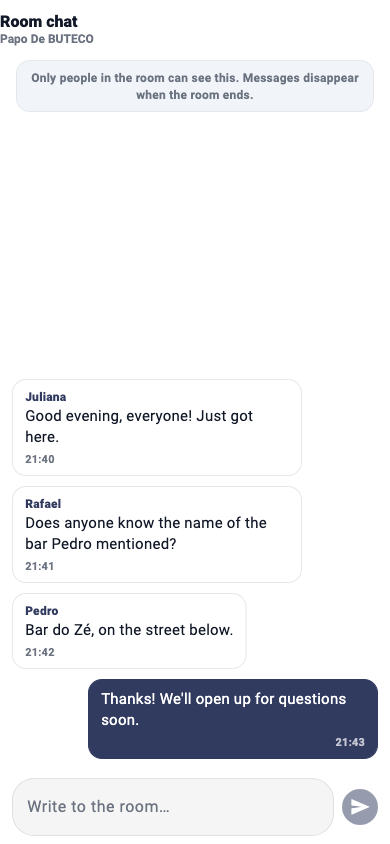
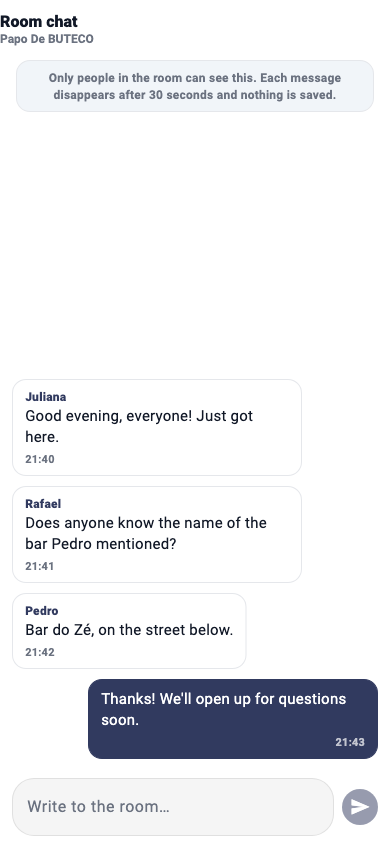
feat(audio-rooms): chat da sala efêmero, cada mensagem some em 30s, sem histórico pra quem entra depois

Changed region(s): [[0.1231, 0.0616, 0.9231, 0.1232]]

diff --git a/lib/features/audio_rooms/audio_room_controller.dart b/lib/features/audio_rooms/audio_room_controller.dart
@@ -26,7 +26,7 @@ class AudioRoomPeer {
 }
 
 /// Mensagem do chat da sala. Só existe na memória de quem está na sala:
-/// nada é salvo, e tudo some quando a sala acaba.
+/// nada é salvo, e cada mensagem some da tela depois de [AudioRoomController.chatTtl].
 class AudioRoomChatMessage {
   final String id;
   final String uid;
@@ -82,12 +82,16 @@ class AudioRoomController extends ChangeNotifier {
 
   static const String chatTopic = 'remdy_chat';
   static const String chatDeleteTopic = 'remdy_chat_del';
-  static const String chatSyncTopic = 'remdy_chat_sync';
   static const int chatMaxChars = 500;
   static const int _chatKeep = 200;
 
+  /// Quanto tempo cada mensagem fica na tela antes de sumir.
+  static const Duration chatTtl = Duration(seconds: 30);
+  final Map<String, Timer> _chatTimers = {};
+  final Set<String> _unread = {};
+
   final List<AudioRoomChatMessage> chat = [];
-  int chatUnread = 0;
+  int get chatUnread => _unread.length;
   bool _chatOpen = false;
 
   /// Avisos para a tela mostrar (chave de texto).
@@ -149,10 +153,7 @@ class AudioRoomController extends ChangeNotifier {
           }
           notifyListeners();
         });
-      listener
-        ..on<DataReceivedEvent>((e) => _onData(room, e))
-        ..on<ParticipantConnectedEvent>(
-            (e) => _sendHistory(e.participant.identity));
+      listener.on<DataReceivedEvent>((e) => _onData(room, e));
       room.addListener(notifyListeners);
       await room.connect(t.url, t.token);
       _room = room;
@@ -206,9 +207,7 @@ class AudioRoomController extends ChangeNotifier {
   Future<void> muteAll() => _sendMute('*');
 
   Future<void> _onData(Room room, DataReceivedEvent e) async {
-    if (e.topic == chatTopic ||
-        e.topic == chatDeleteTopic ||
-        e.topic == chatSyncTopic) {
+    if (e.topic == chatTopic || e.topic == chatDeleteTopic) {
       _onChatData(e);
       return;
     }
@@ -239,8 +238,8 @@ class AudioRoomController extends ChangeNotifier {
 
   void setChatOpen(bool open) {
     _chatOpen = open;
-    if (open && chatUnread != 0) {
-      chatUnread = 0;
+    if (open && _unread.isNotEmpty) {
+      _unread.clear();
       notifyListeners();
     }
   }
@@ -250,7 +249,16 @@ class AudioRoomController extends ChangeNotifier {
     chat.add(m);
     chat.sort((a, b) => a.ts.compareTo(b.ts));
     if (chat.length > _chatKeep) chat.removeRange(0, chat.length - _chatKeep);
-    if (countUnread && !_chatOpen) chatUnread++;
+    if (countUnread && !_chatOpen) _unread.add(m.id);
+    _chatTimers[m.id] = Timer(chatTtl, () => _removeChat(m.id));
+  }
+
+  void _removeChat(String id) {
+    _chatTimers.remove(id)?.cancel();
+    _unread.remove(id);
+    final before = chat.length;
+    chat.removeWhere((m) => m.id == id);
+    if (chat.length != before) notifyListeners();
   }
 
   Future<void> sendChat(String raw) async {
@@ -278,30 +286,7 @@ class AudioRoomController extends ChangeNotifier {
     if (local == null || !isModerator) return;
     await local.publishData(utf8.encode(jsonEncode({'id': id})),
         reliable: true, topic: chatDeleteTopic);
-    chat.removeWhere((m) => m.id == id);
-    notifyListeners();
-  }
-
-  /// Quem chega depois recebe as mensagens anteriores de um moderador
-  /// que já está na sala (o de menor id, pra não chegar repetido).
-  Future<void> _sendHistory(String to) async {
-    final room = _room;
-    final local = room?.localParticipant;
-    if (room == null || local == null || !isModerator || chat.isEmpty) return;
-    final mods = <String>[
-      local.identity,
-      for (final p in room.remoteParticipants.values)
-        if (p.identity != to && audioRoomIsModeratorRole(_roleOf(p.identity)))
-          p.identity,
-    ]..sort();
-    if (mods.first != local.identity) return;
-    for (var i = 0; i < chat.length; i += 10) {
-      final part = chat.skip(i).take(10).map((m) => m.toJson()).toList();
-      try {
-        await local.publishData(utf8.encode(jsonEncode({'list': part})),
-            reliable: true, topic: chatSyncTopic, destinationIdentities: [to]);
-      } catch (_) {}
-    }
+    _removeChat(id);
   }
 
   void _onChatData(DataReceivedEvent e) {
@@ -329,16 +314,8 @@ class AudioRoomController extends ChangeNotifier {
       ));
     } else if (e.topic == chatDeleteTopic) {
       if (!fromMod) return;
-      final id = '${data['id'] ?? ''}';
-      chat.removeWhere((m) => m.id == id);
-    } else if (e.topic == chatSyncTopic) {
-      if (!fromMod) return;
-      final list = data['list'];
-      if (list is! List) return;
-      for (final j in list) {
-        final m = AudioRoomChatMessage.fromJson(j);
-        if (m != null) _addChat(m, countUnread: false);
-      }
+      _removeChat('${data['id'] ?? ''}');
+      return;
     }
     notifyListeners();
   }
@@ -368,8 +345,12 @@ class AudioRoomController extends ChangeNotifier {
     roomId = null;
     role = 'member';
     _groupData = const {};
+    for (final t in _chatTimers.values) {
+      t.cancel();
+    }
+    _chatTimers.clear();
     chat.clear();
-    chatUnread = 0;
+    _unread.clear();
     _chatOpen = false;
     notifyListeners();
   }
